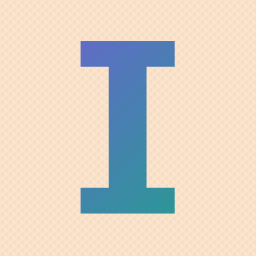
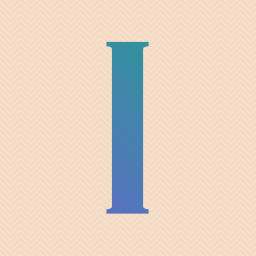
アイコン差し替え

Changed region(s): [[0.3125, 0.1562, 0.6875, 0.8438]]

diff --git a/examples/gen_icon.rs b/examples/gen_icon.rs
@@ -7,6 +7,9 @@ use std::fs::File;
 
 fn load_font() -> FontVec {
     let candidates = [
+        concat!(env!("CARGO_MANIFEST_DIR"), r"\fonts\AoboshiOne-Regular.ttf"),
+        r"C:\Users\koya\AppData\Local\Microsoft\Windows\Fonts\AoboshiOne-Regular.ttf",
+        r"C:\Windows\Fonts\AoboshiOne-Regular.ttf",
         r"C:\Windows\Fonts\meiryob.ttc",
         r"C:\Windows\Fonts\YuGothB.ttc",
         r"C:\Windows\Fonts\msgothic.ttc",
@@ -36,25 +39,35 @@ fn lerp_color(a: [u8; 4], b: [u8; 4], t: f32) -> Rgba<u8> {
     ])
 }
 
-fn draw_chevron_pattern(img: &mut RgbaImage, base: [u8; 3], size: u32) {
-    let line_color = Rgba([
-        base[0].saturating_add(8),
-        base[1].saturating_add(5),
-        base[2].saturating_add(2),
-        255,
-    ]);
-    let spacing = (size as f32 / 32.0).max(4.0) as i32;
-    let half = spacing / 2;
+fn draw_chevron_pattern(img: &mut RgbaImage, size: u32) {
+    let width = size as i32;
+    let height = size as i32;
 
-    for y in 0..size as i32 {
-        for x in 0..size as i32 {
-            let row = y / half;
-            let offset = if row % 2 == 0 { 0 } else { half };
-            let lx = (x + offset) % spacing;
-            let ly = y % half;
-            let on_line = (lx - ly).abs() <= 1 || (lx + ly - half).abs() <= 1;
-            if on_line {
-                img.put_pixel(x as u32, y as u32, line_color);
+    let spacing = 6;
+    let zigzag_period = 20;
+
+    for y in 0..height {
+        for x in 0..width {
+            let half = zigzag_period / 2;
+            let zigzag = ((x % zigzag_period) - half).abs();
+            let pattern_y = (y + zigzag).rem_euclid(spacing);
+
+            let bg = *img.get_pixel(x as u32, y as u32);
+
+            if pattern_y == 0 {
+                img.put_pixel(x as u32, y as u32, Rgba([
+                    bg[0].saturating_add(10),
+                    bg[1].saturating_add(10),
+                    bg[2].saturating_add(10),
+                    255,
+                ]));
+            } else if pattern_y == 1 {
+                img.put_pixel(x as u32, y as u32, Rgba([
+                    bg[0].saturating_sub(6),
+                    bg[1].saturating_sub(6),
+                    bg[2].saturating_sub(6),
+                    255,
+                ]));
             }
         }
     }
@@ -87,7 +100,7 @@ fn measure_text_bbox(font: &FontVec, text: &str, scale: f32, canvas: u32) -> Opt
 }
 
 fn generate_image(font: &FontVec, text: &str, size: u32) -> RgbaImage {
-    let bg_rgb = [245u8, 222, 199];
+    let bg_rgb = [242u8, 220, 198];
     let grad_start = [120u8, 90, 220, 255];
     let grad_end = [20u8, 170, 130, 255];
     let padding: f32 = 0.16;
@@ -95,7 +108,7 @@ fn generate_image(font: &FontVec, text: &str, size: u32) -> RgbaImage {
     let bg = Rgba([bg_rgb[0], bg_rgb[1], bg_rgb[2], 255]);
     let mut img = RgbaImage::from_pixel(size, size, bg);
 
-    draw_chevron_pattern(&mut img, bg_rgb, size);
+    draw_chevron_pattern(&mut img, size);
 
     let ref_scale = 200.0_f32;
     let ref_canvas = 512u32;
@@ -111,15 +124,16 @@ fn generate_image(font: &FontVec, text: &str, size: u32) -> RgbaImage {
     let final_scale = ref_scale * ratio;
 
     let white = Rgba([255u8, 255, 255, 255]);
-    let mut text_layer = RgbaImage::from_pixel(size, size, Rgba([0, 0, 0, 0]));
+    let tmp_size = size * 2;
+    let mut text_layer = RgbaImage::from_pixel(tmp_size, tmp_size, Rgba([0, 0, 0, 0]));
     draw_text_mut(&mut text_layer, white, 0, 0, PxScale::from(final_scale), font, text);
 
-    let mut min_x = size;
-    let mut min_y = size;
+    let mut min_x = tmp_size;
+    let mut min_y = tmp_size;
     let mut max_x = 0u32;
     let mut max_y = 0u32;
-    for y in 0..size {
-        for x in 0..size {
+    for y in 0..tmp_size {
+        for x in 0..tmp_size {
             if text_layer.get_pixel(x, y)[3] > 0 {
                 min_x = min_x.min(x);
                 min_y = min_y.min(y);
@@ -138,12 +152,12 @@ fn generate_image(font: &FontVec, text: &str, size: u32) -> RgbaImage {
         for x in 0..size {
             let src_x = x as i32 - offset_x;
             let src_y = y as i32 - offset_y;
-            if src_x < 0 || src_y < 0 || src_x >= size as i32 || src_y >= size as i32 {
+            if src_x < 0 || src_y < 0 || src_x >= tmp_size as i32 || src_y >= tmp_size as i32 {
                 continue;
             }
             let tp = text_layer.get_pixel(src_x as u32, src_y as u32);
             if tp[3] > 0 {
-                let t = ((x as f32 + y as f32) / (2.0 * size as f32)).clamp(0.0, 1.0);
+                let t = ((x as f32 + (size as f32 - y as f32)) / (2.0 * size as f32)).clamp(0.0, 1.0);
                 let grad = lerp_color(grad_start, grad_end, t);
                 let alpha = tp[3] as f32 / 255.0;
                 let bg_px = img.get_pixel(x, y);
